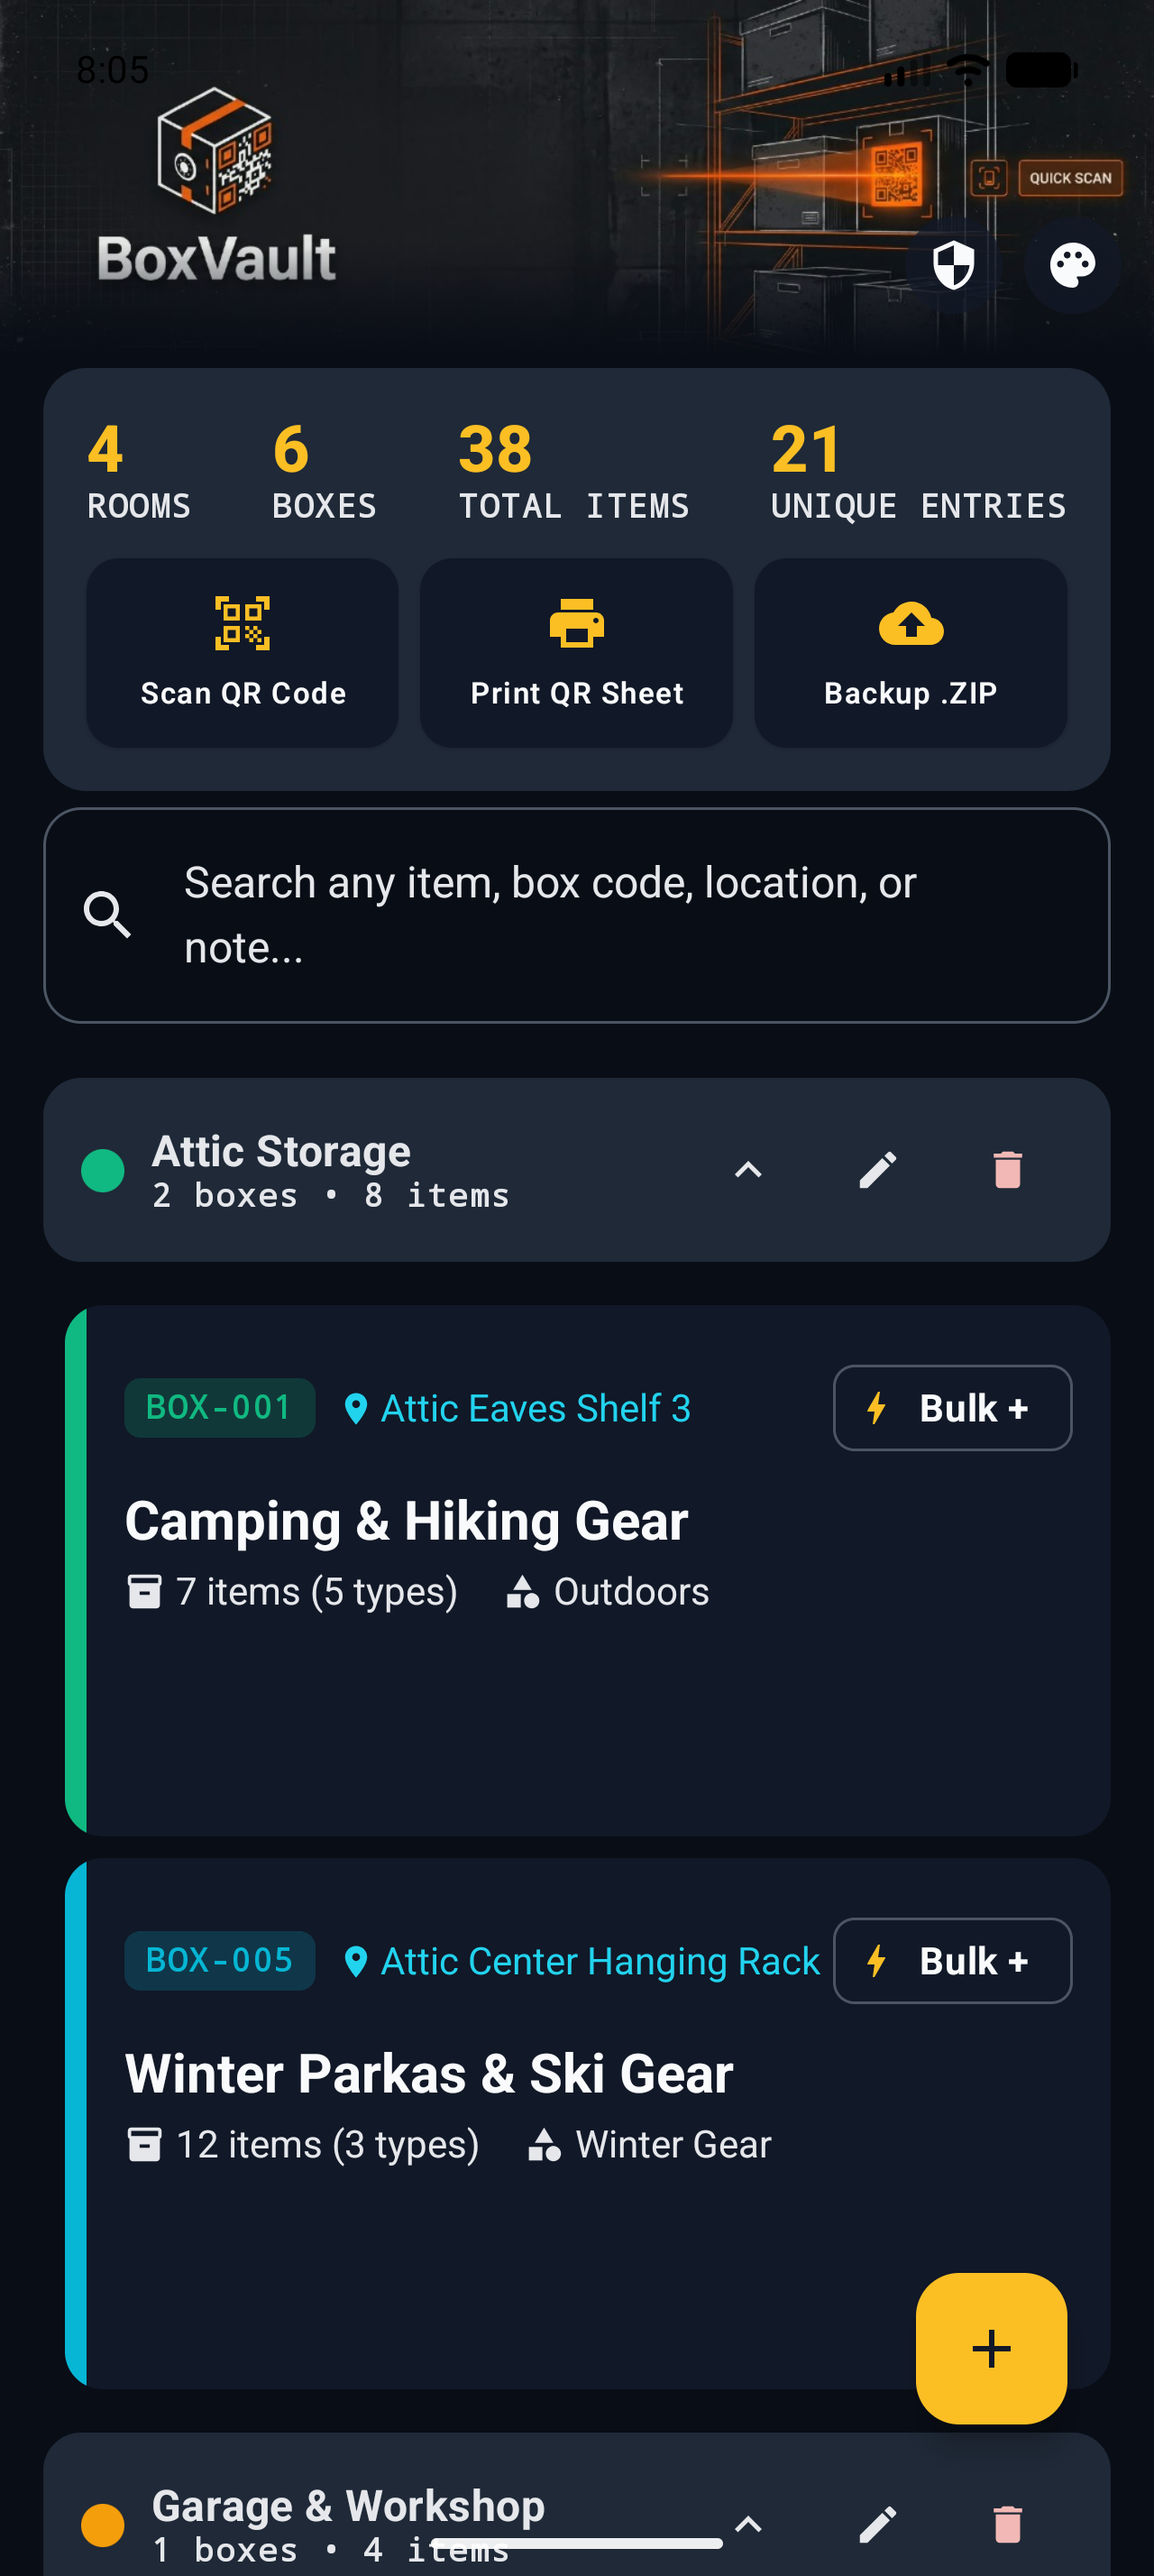
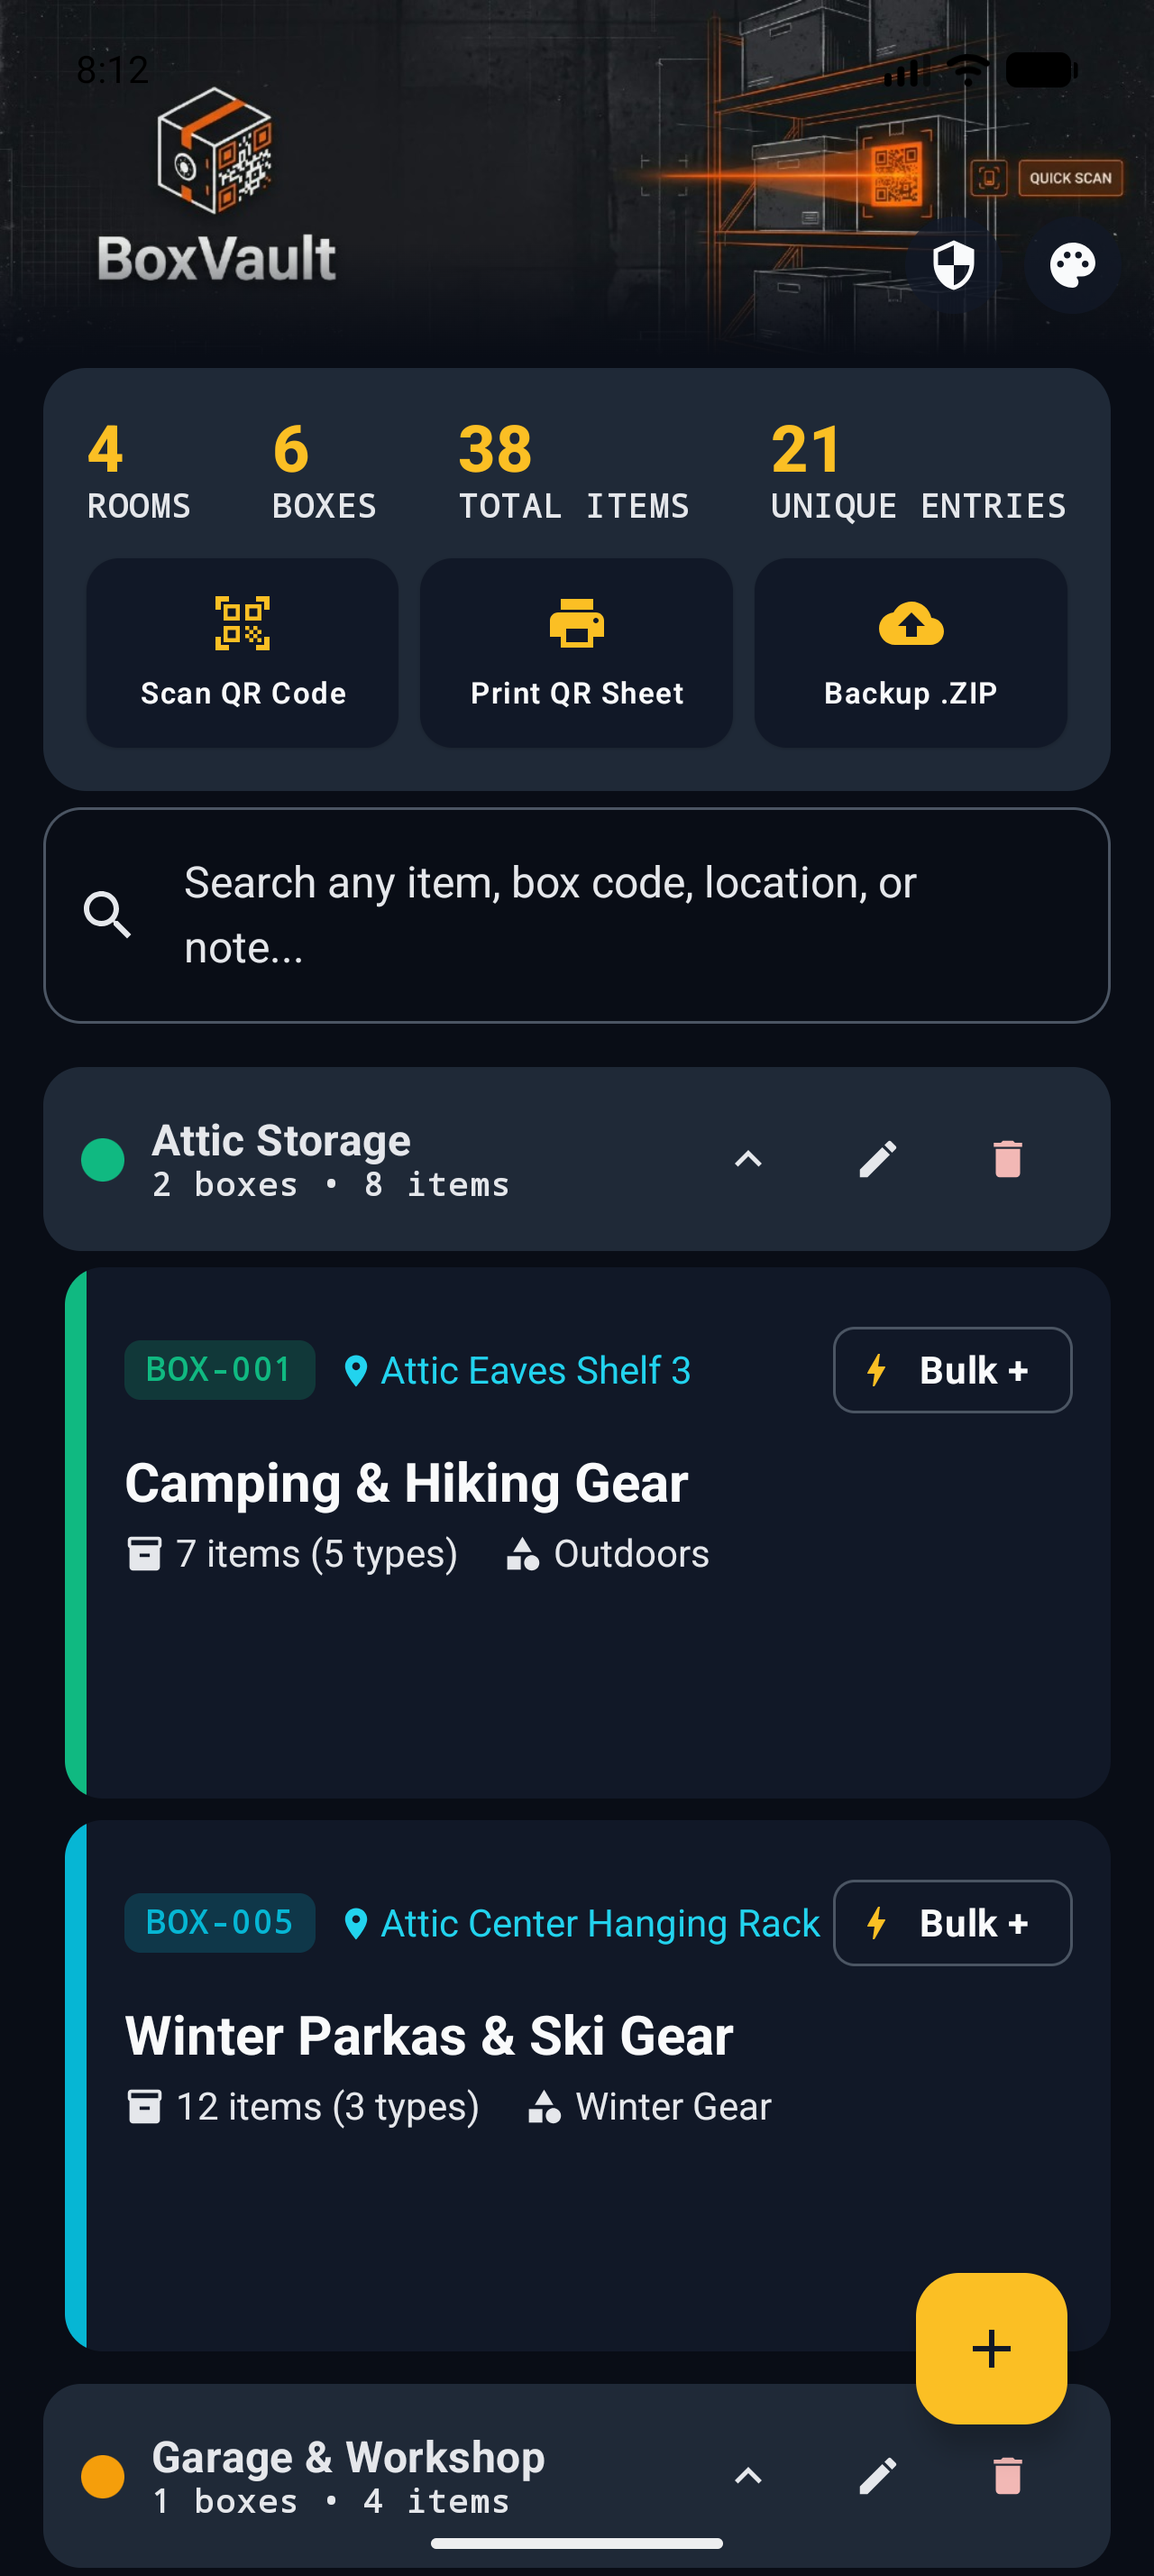
fix(ui): reduce spacing between room header and room boxes on dashboard

diff --git a/app/src/main/java/com/boxvault/app/ui/screens/dashboard/DashboardScreen.kt b/app/src/main/java/com/boxvault/app/ui/screens/dashboard/DashboardScreen.kt
@@ -565,54 +565,56 @@ private fun DashboardHomeContent(
             // --- ROOM-GROUPED HIERARCHY (1+ rooms exist) ---
             uiState.roomSections.forEach { section ->
                 val isExpanded = !(collapsedRoomIds[section.room.id] ?: false)
-                item(key = "room_header_${section.room.id}") {
-                    RoomHeaderCard(
-                        room = section.room,
-                        boxCount = section.boxCount,
-                        totalItems = section.totalItems,
-                        isExpanded = isExpanded,
-                        onToggleExpand = {
-                            collapsedRoomIds[section.room.id] = isExpanded
-                        },
-                        onEditRoom = { onEditRoom(section.room) },
-                        onDeleteRoom = { onDeleteRoom(section.room) }
-                    )
-                }
+                item(key = "room_section_${section.room.id}") {
+                    Column(modifier = Modifier.fillMaxWidth()) {
+                        RoomHeaderCard(
+                            room = section.room,
+                            boxCount = section.boxCount,
+                            totalItems = section.totalItems,
+                            isExpanded = isExpanded,
+                            onToggleExpand = {
+                                collapsedRoomIds[section.room.id] = isExpanded
+                            },
+                            onEditRoom = { onEditRoom(section.room) },
+                            onDeleteRoom = { onDeleteRoom(section.room) }
+                        )
 
-                item(key = "room_content_${section.room.id}") {
-                    AnimatedVisibility(
-                        visible = isExpanded,
-                        enter = fadeIn(tween(200)) + expandVertically(),
-                        exit = fadeOut(tween(150)) + shrinkVertically()
-                    ) {
-                        Column(
-                            modifier = Modifier.fillMaxWidth(),
-                            verticalArrangement = Arrangement.spacedBy(8.dp)
+                        AnimatedVisibility(
+                            visible = isExpanded,
+                            enter = fadeIn(tween(200)) + expandVertically(),
+                            exit = fadeOut(tween(150)) + shrinkVertically()
                         ) {
-                            if (section.boxes.isEmpty()) {
-                                Surface(
-                                    color = MaterialTheme.colorScheme.surfaceVariant.copy(alpha = 0.5f),
-                                    shape = RoundedCornerShape(10.dp),
-                                    modifier = Modifier
-                                        .fillMaxWidth()
-                                        .padding(horizontal = 24.dp, vertical = 2.dp)
-                                ) {
-                                    Text(
-                                        text = stringResource(R.string.dashboard_room_empty),
-                                        style = MaterialTheme.typography.bodySmall,
-                                        color = MaterialTheme.colorScheme.onSurfaceVariant,
-                                        modifier = Modifier.padding(12.dp)
-                                    )
-                                }
-                            } else {
-                                section.boxes.forEach { summary ->
-                                    BoxSummaryCard(
-                                        summary = summary,
-                                        onClick = { onBoxClick(summary.box.id) },
-                                        onLongClick = { onBoxLongClick(summary) },
-                                        onQuickBulkEntryClick = { onBulkEntryClick(summary.box.id) },
-                                        modifier = Modifier.padding(start = 24.dp, end = 16.dp)
-                                    )
+                            Column(
+                                modifier = Modifier
+                                    .fillMaxWidth()
+                                    .padding(top = 6.dp),
+                                verticalArrangement = Arrangement.spacedBy(8.dp)
+                            ) {
+                                if (section.boxes.isEmpty()) {
+                                    Surface(
+                                        color = MaterialTheme.colorScheme.surfaceVariant.copy(alpha = 0.5f),
+                                        shape = RoundedCornerShape(10.dp),
+                                        modifier = Modifier
+                                            .fillMaxWidth()
+                                            .padding(horizontal = 24.dp)
+                                    ) {
+                                        Text(
+                                            text = stringResource(R.string.dashboard_room_empty),
+                                            style = MaterialTheme.typography.bodySmall,
+                                            color = MaterialTheme.colorScheme.onSurfaceVariant,
+                                            modifier = Modifier.padding(12.dp)
+                                        )
+                                    }
+                                } else {
+                                    section.boxes.forEach { summary ->
+                                        BoxSummaryCard(
+                                            summary = summary,
+                                            onClick = { onBoxClick(summary.box.id) },
+                                            onLongClick = { onBoxLongClick(summary) },
+                                            onQuickBulkEntryClick = { onBulkEntryClick(summary.box.id) },
+                                            modifier = Modifier.padding(start = 24.dp, end = 16.dp)
+                                        )
+                                    }
                                 }
                             }
                         }
@@ -621,33 +623,35 @@ private fun DashboardHomeContent(
             }
 
             if (uiState.unassignedBoxes.isNotEmpty()) {
-                item(key = "unassigned_header") {
-                    UnassignedHeaderCard(
-                        boxCount = uiState.unassignedBoxes.size,
-                        totalItems = uiState.unassignedBoxes.sumOf { it.itemCount },
-                        isExpanded = !isUnassignedCollapsed,
-                        onToggleExpand = { isUnassignedCollapsed = !isUnassignedCollapsed }
-                    )
-                }
+                item(key = "unassigned_section") {
+                    Column(modifier = Modifier.fillMaxWidth()) {
+                        UnassignedHeaderCard(
+                            boxCount = uiState.unassignedBoxes.size,
+                            totalItems = uiState.unassignedBoxes.sumOf { it.itemCount },
+                            isExpanded = !isUnassignedCollapsed,
+                            onToggleExpand = { isUnassignedCollapsed = !isUnassignedCollapsed }
+                        )
 
-                item(key = "unassigned_content") {
-                    AnimatedVisibility(
-                        visible = !isUnassignedCollapsed,
-                        enter = fadeIn(tween(200)) + expandVertically(),
-                        exit = fadeOut(tween(150)) + shrinkVertically()
-                    ) {
-                        Column(
-                            modifier = Modifier.fillMaxWidth(),
-                            verticalArrangement = Arrangement.spacedBy(8.dp)
+                        AnimatedVisibility(
+                            visible = !isUnassignedCollapsed,
+                            enter = fadeIn(tween(200)) + expandVertically(),
+                            exit = fadeOut(tween(150)) + shrinkVertically()
                         ) {
-                            uiState.unassignedBoxes.forEach { summary ->
-                                BoxSummaryCard(
-                                    summary = summary,
-                                    onClick = { onBoxClick(summary.box.id) },
-                                    onLongClick = { onBoxLongClick(summary) },
-                                    onQuickBulkEntryClick = { onBulkEntryClick(summary.box.id) },
-                                    modifier = Modifier.padding(start = 24.dp, end = 16.dp)
-                                )
+                            Column(
+                                modifier = Modifier
+                                    .fillMaxWidth()
+                                    .padding(top = 6.dp),
+                                verticalArrangement = Arrangement.spacedBy(8.dp)
+                            ) {
+                                uiState.unassignedBoxes.forEach { summary ->
+                                    BoxSummaryCard(
+                                        summary = summary,
+                                        onClick = { onBoxClick(summary.box.id) },
+                                        onLongClick = { onBoxLongClick(summary) },
+                                        onQuickBulkEntryClick = { onBulkEntryClick(summary.box.id) },
+                                        modifier = Modifier.padding(start = 24.dp, end = 16.dp)
+                                    )
+                                }
                             }
                         }
                     }
@@ -790,7 +794,7 @@ private fun RoomHeaderCard(
     Card(
         modifier = Modifier
             .fillMaxWidth()
-            .padding(horizontal = 16.dp, vertical = 4.dp),
+            .padding(horizontal = 16.dp),
         shape = RoundedCornerShape(14.dp),
         colors = CardDefaults.cardColors(
             containerColor = MaterialTheme.colorScheme.surfaceVariant
@@ -871,7 +875,7 @@ private fun UnassignedHeaderCard(
     Card(
         modifier = Modifier
             .fillMaxWidth()
-            .padding(horizontal = 16.dp, vertical = 4.dp),
+            .padding(horizontal = 16.dp),
         shape = RoundedCornerShape(14.dp),
         colors = CardDefaults.cardColors(
             containerColor = MaterialTheme.colorScheme.surfaceVariant.copy(alpha = 0.7f)
